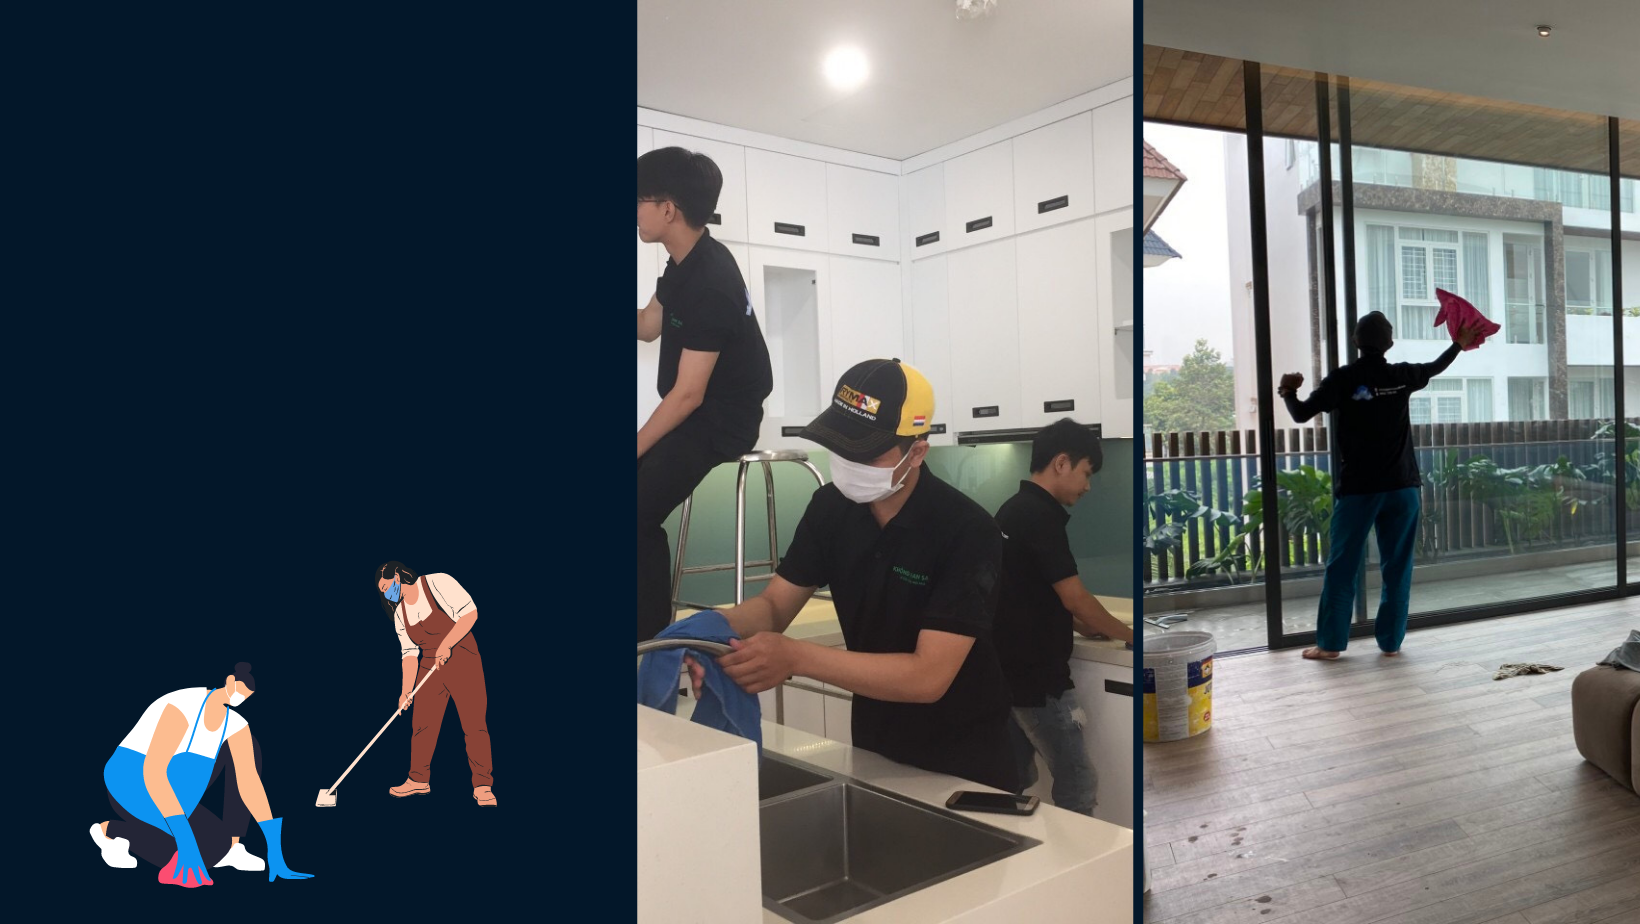
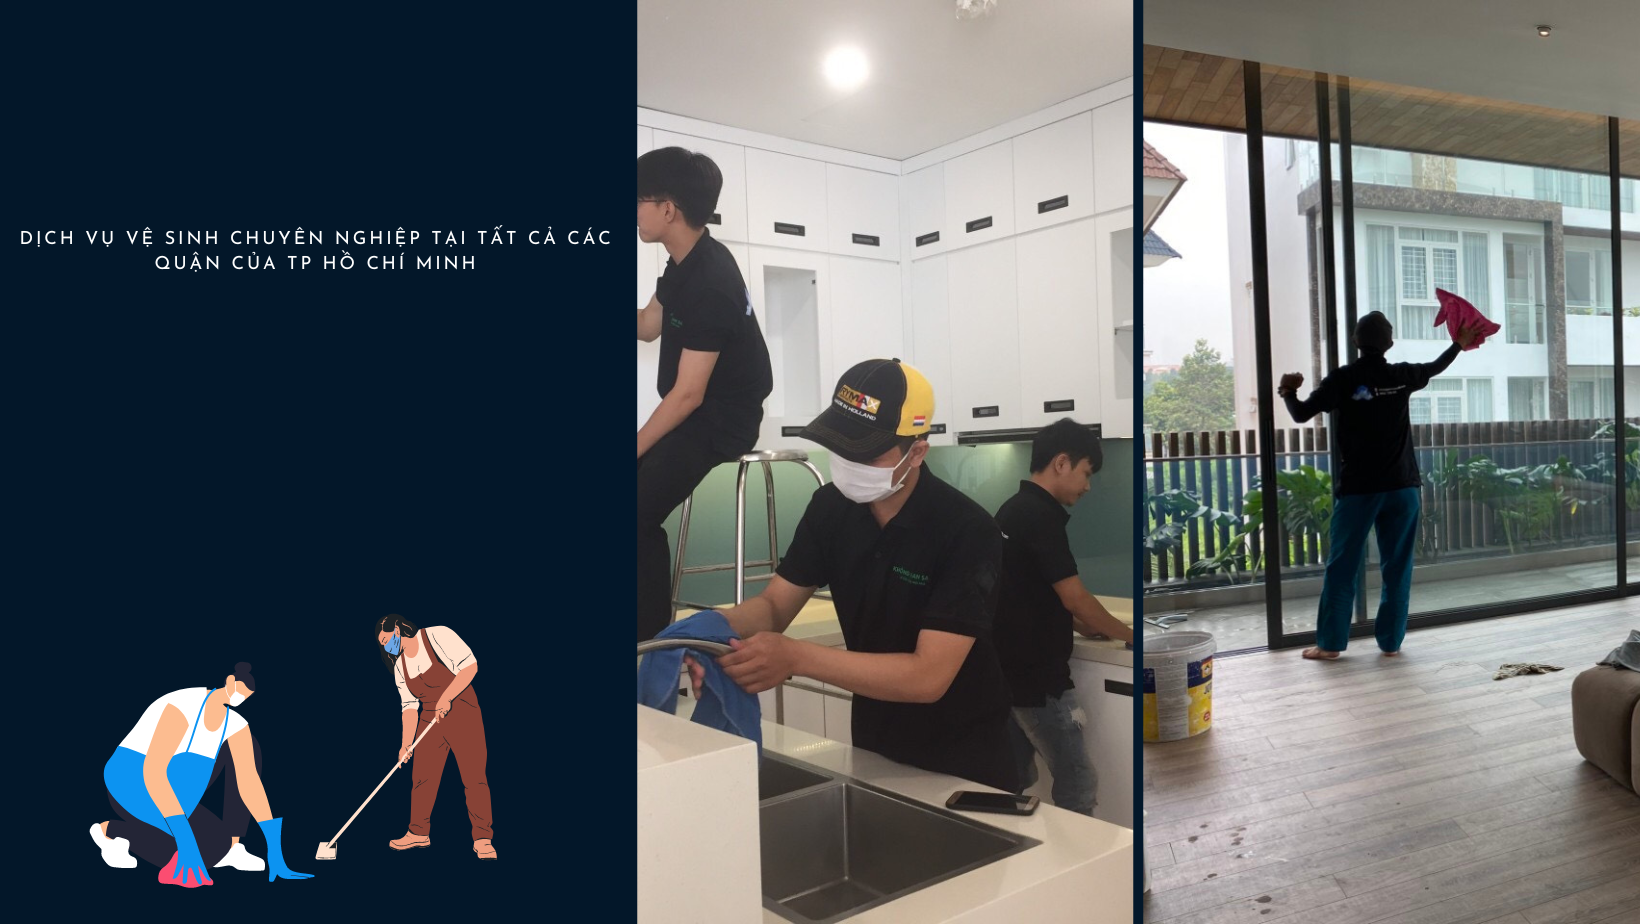
aa

Changed region(s): [[0.1866, 0.6061, 0.311, 0.9394], [0.0, 0.2424, 0.3732, 0.303]]

diff --git a/index.html b/index.html
@@ -104,6 +104,7 @@
         
         <!-- <img class="anhtieude" src="DATA/Màu kem Màu be Sạch Thu nhỏ Cá nhân Podcast Phát trực tiếp Ảnh bìa Facebook.png"/> -->
         <div class="nameweb">
+            <!-- <h4>Dịch Vụ Vệ Sinh Chuyên Nghiệp Tại Các Quận Thuộc TP.Hồ Chí Minh</h4> -->
         <h3 >Công Ty TNHN Vệ Sinh <br> <span class="congnghiep">Công Nghiệp<br></span> <span class="tencty">Năm Sao</span></h1>
         <h4 class="cauquote">Uy Tín-Tận Tâm-Chất Lượng</h4>
     </div>

diff --git a/css/style.css b/css/style.css
@@ -216,7 +216,7 @@ div.lienhe{
     min-height: 100vh;
     display: flex;
     align-items: center;
-    background:url(../DATA/Màu\ kem\ Màu\ be\ Sạch\ Thu\ nhỏ\ Cá\ nhân\ Podcast\ Phát\ trực\ tiếp\ Ảnh\ bìa\ Facebook.png) no-repeat; 
+    background:url(/DATA/Màu\ kem\ Màu\ be\ Sạch\ Thu\ nhỏ\ Cá\ nhân\ Podcast\ Phát\ trực\ tiếp\ Ảnh\ bìa\ Facebook.png) no-repeat; 
     background-size: cover;
     background-position: center;
 }
